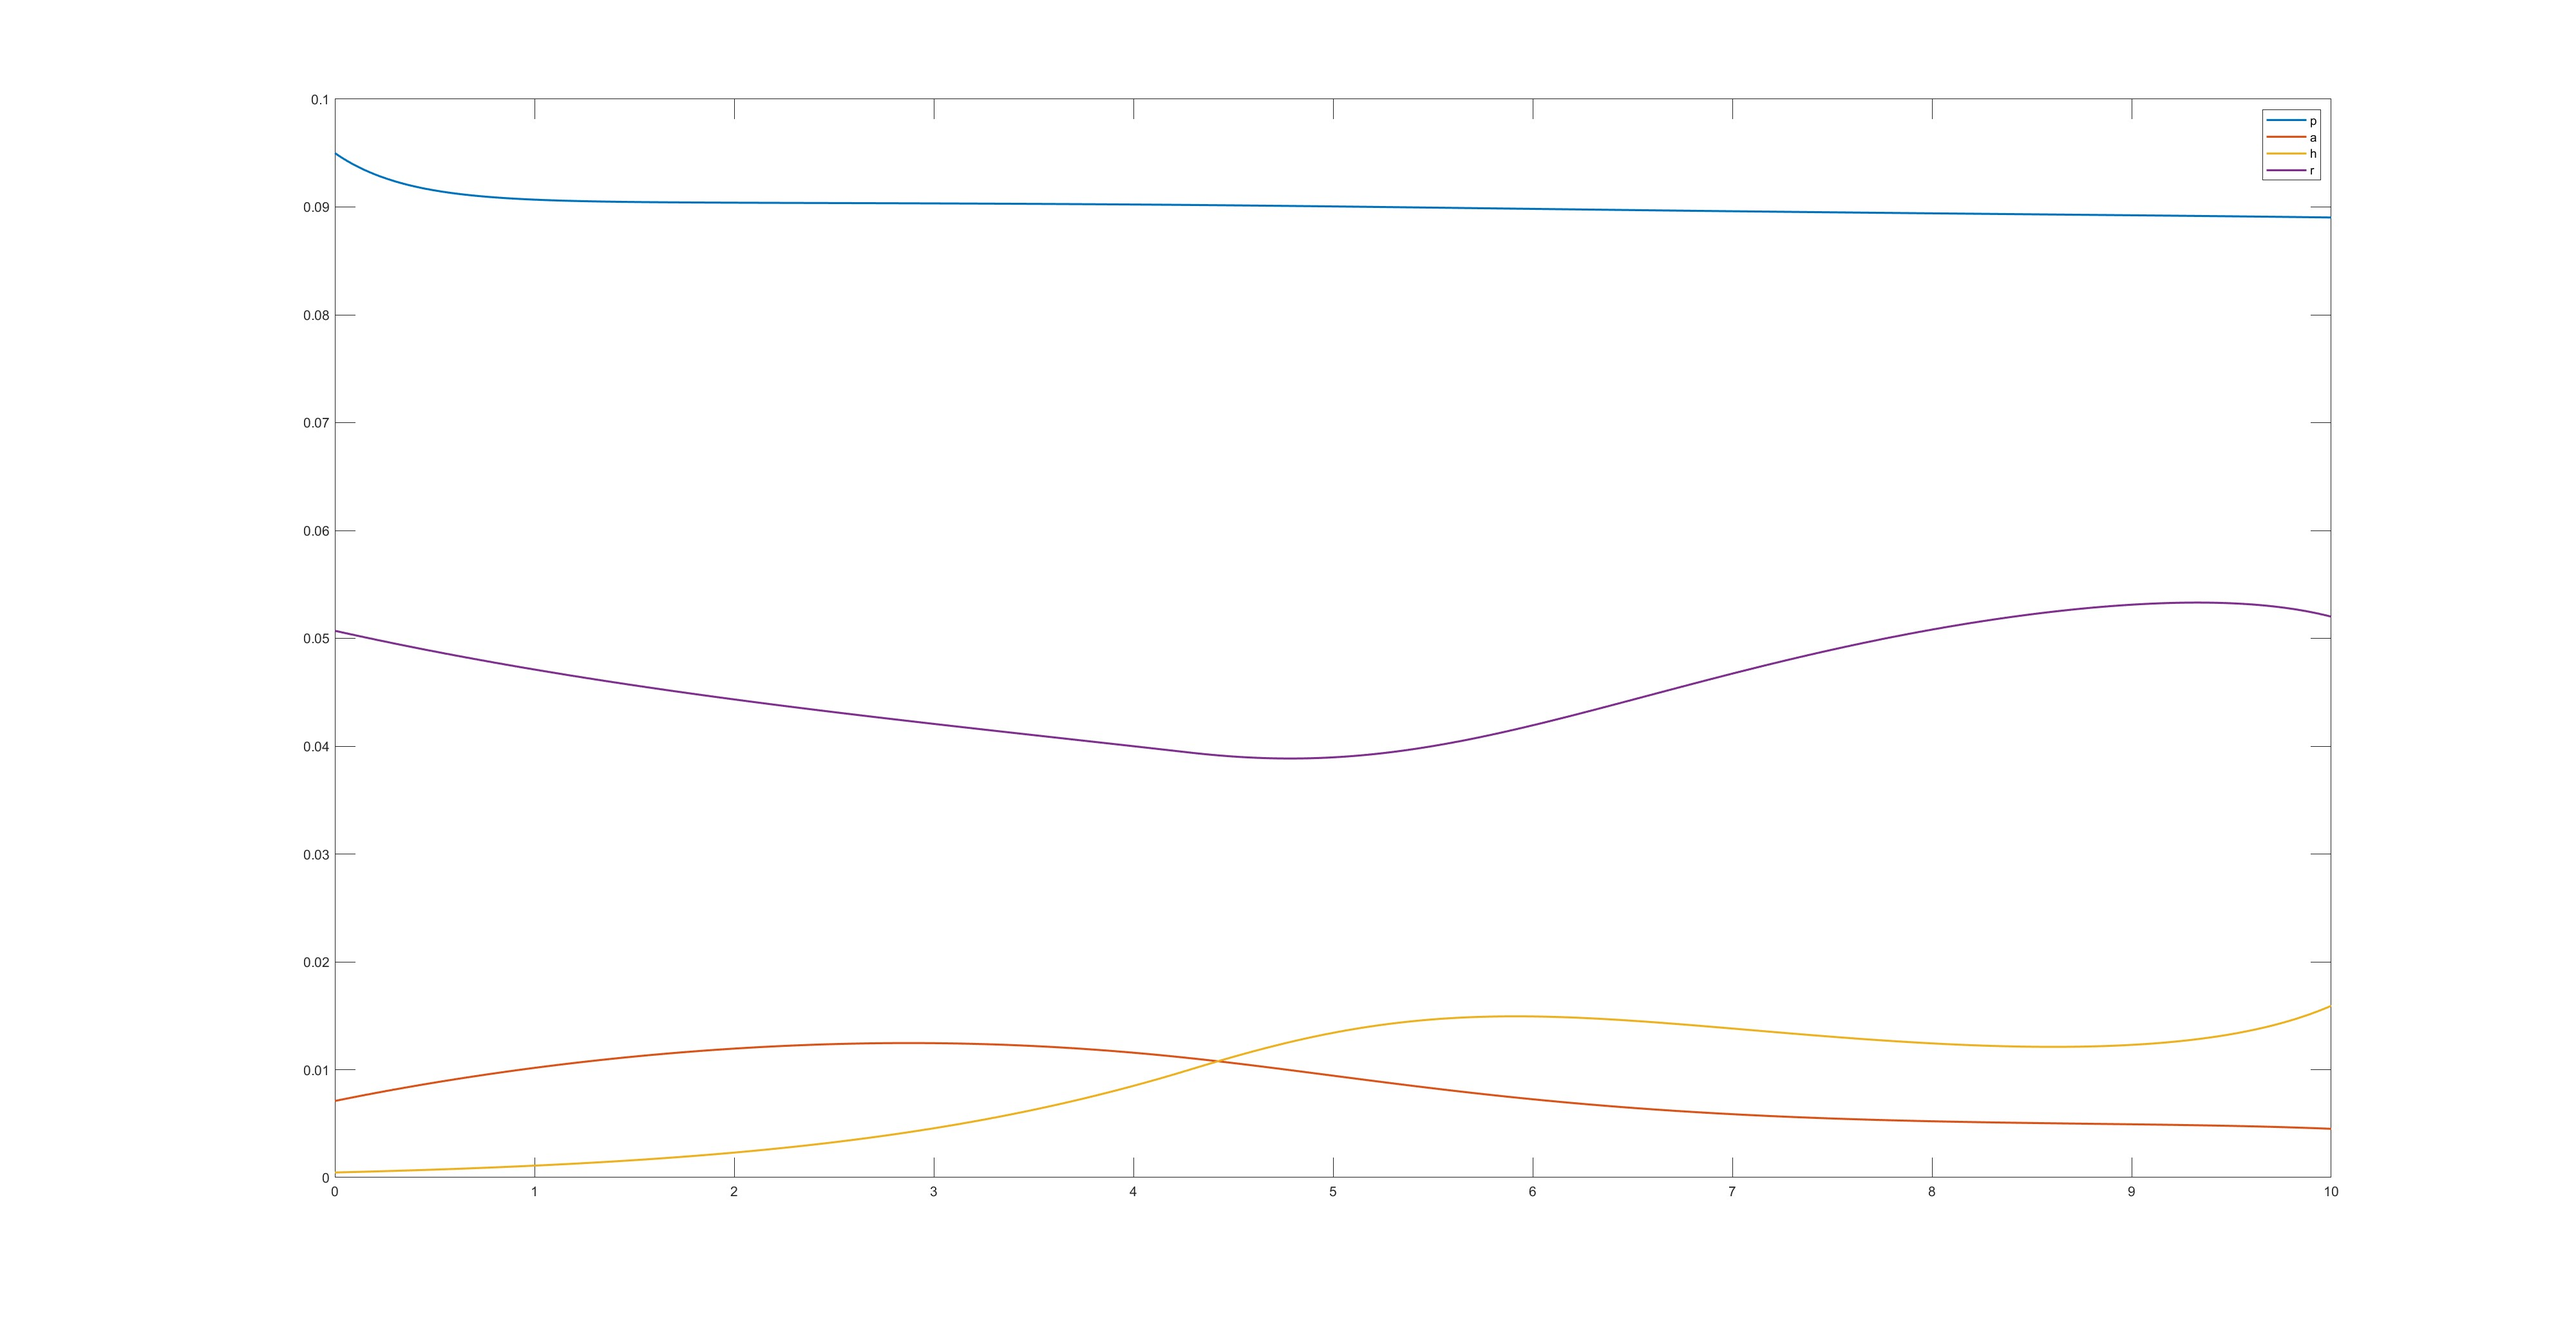
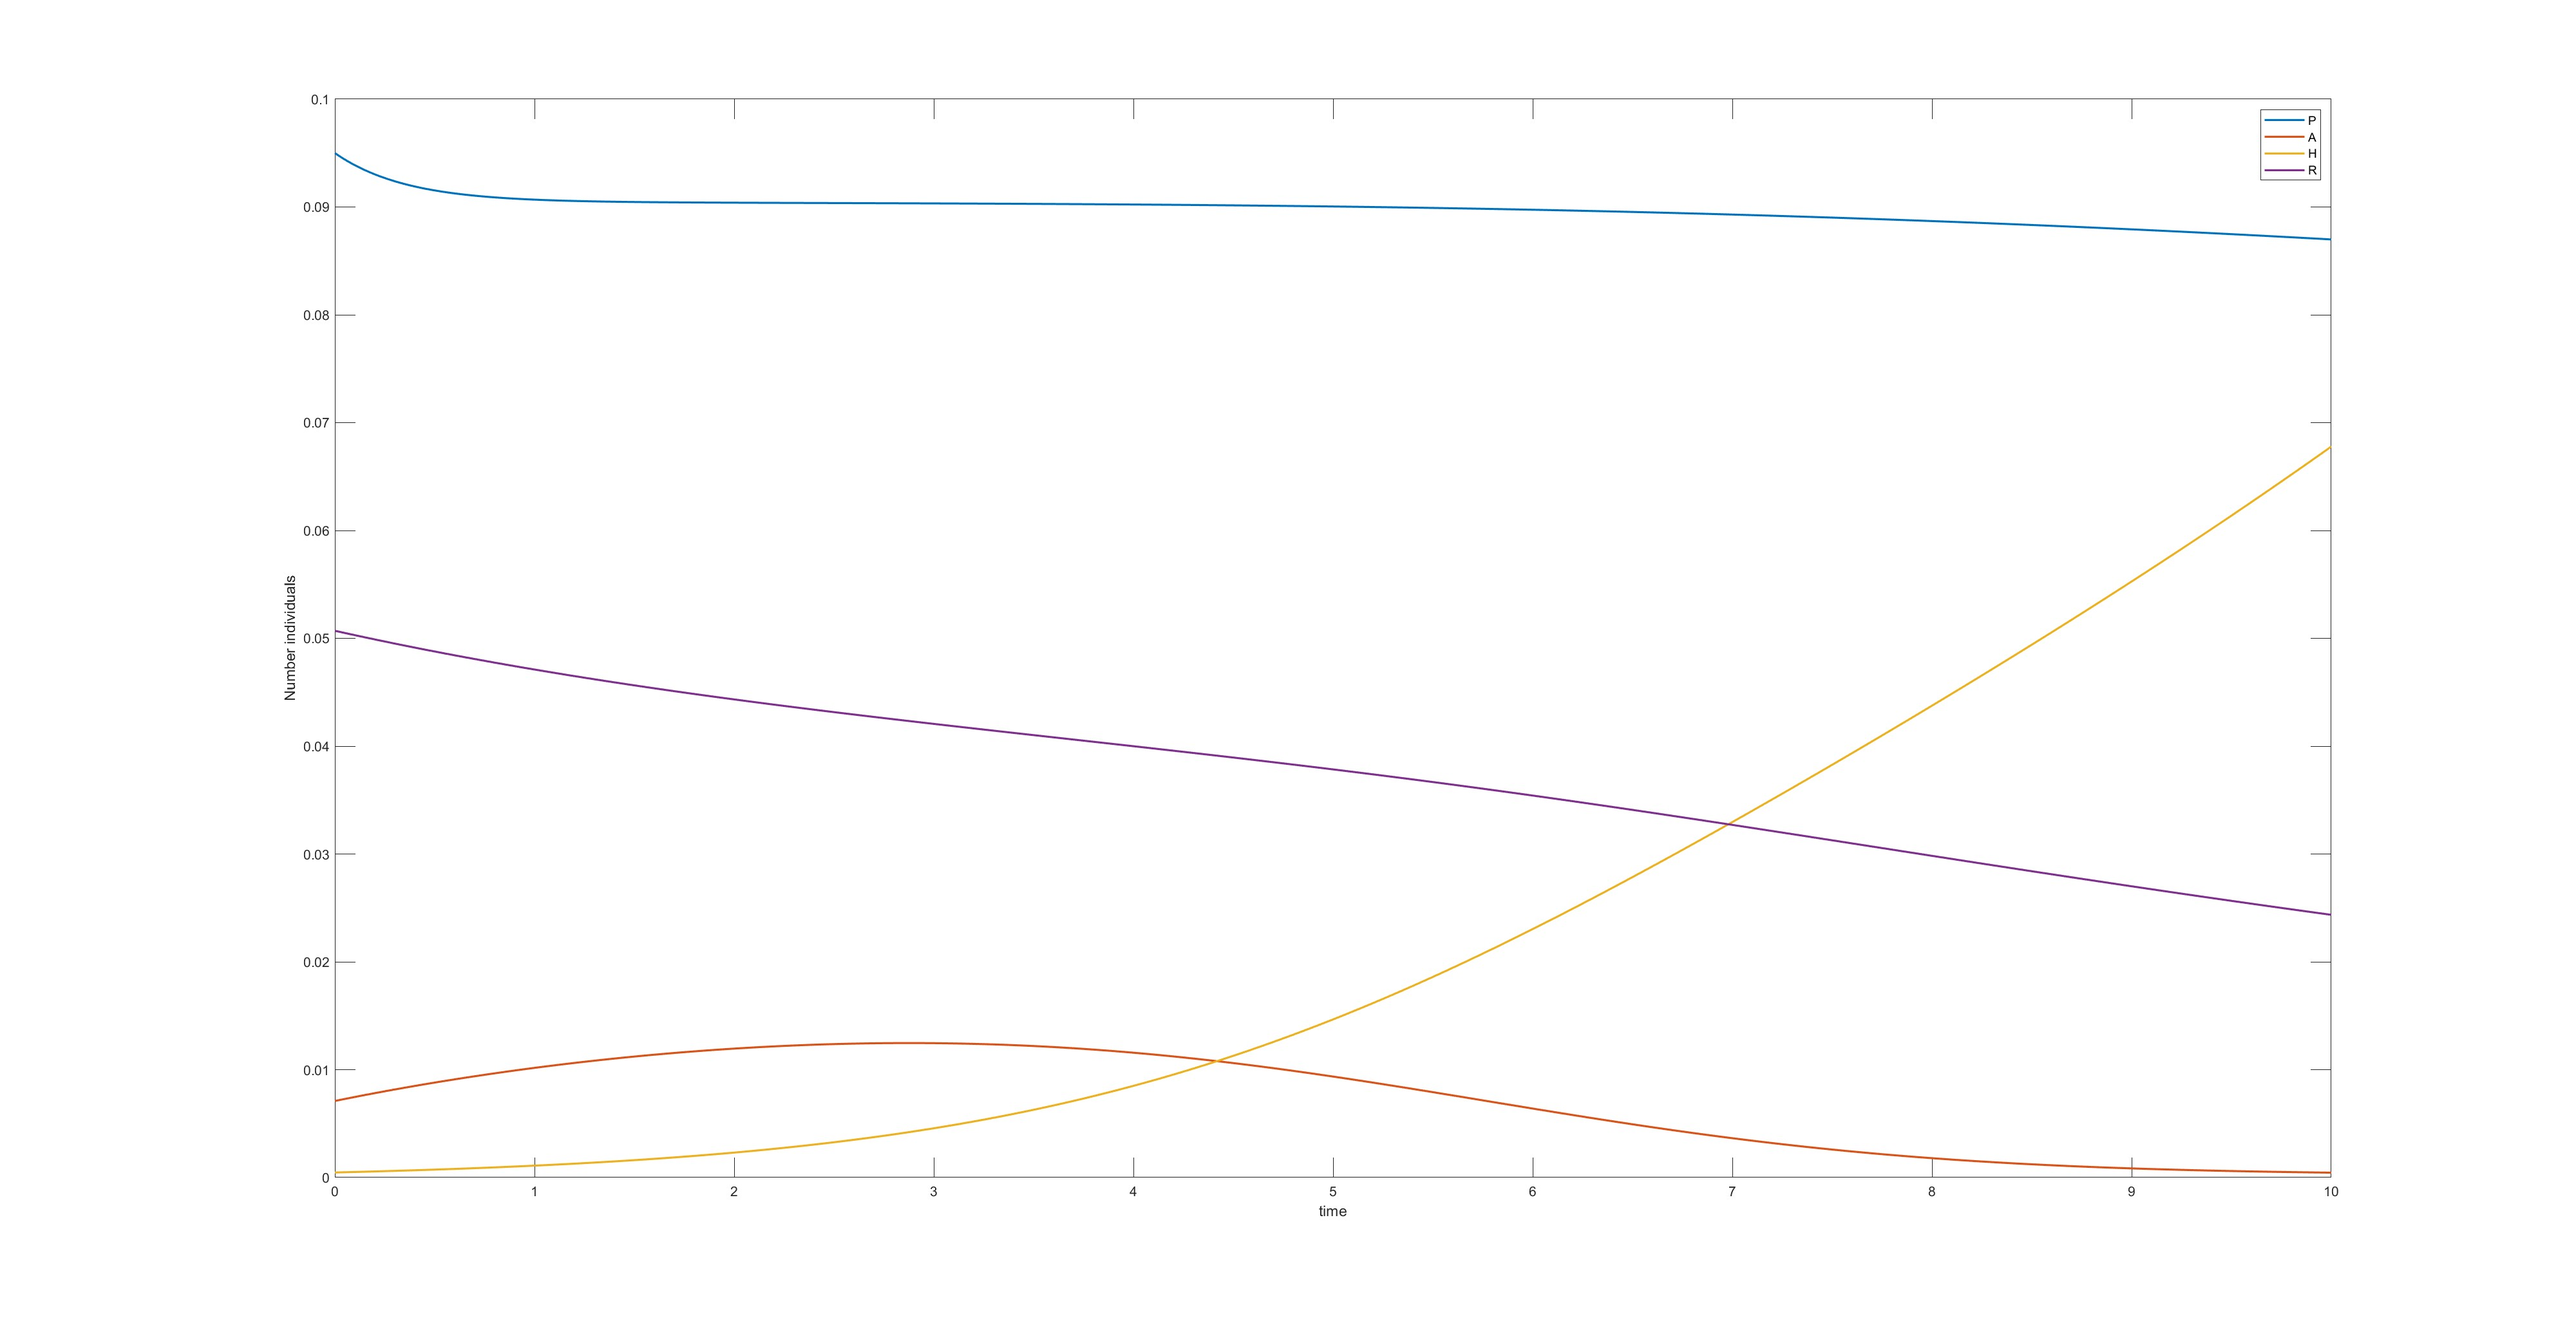
projmod3 all figures

diff --git a/Mod3/ProjMod3/mod3.m b/Mod3/ProjMod3/mod3.m
@@ -15,21 +15,21 @@ format short
 global alpha betaA betaP theta1 theta2 theta3 omega gamma epsilon miu miuA miuH sigma zeta niu; 
 
 %% Do PDF ParamNorm
-alpha=0.27;
-betaA=0.000878; 
-betaP=0.0000654; 
-theta1=0.222;
-epsilon=2.53;
-miu=0.0071; 
-miuA=0.00883;   
-miuH=0.0466;
-gamma=0.00505;   
-theta2=0.236; 
-sigma=0.102;
-zeta=0.198;
-theta3=19.7; 
-niu=0.000531;
-omega=0.0000000001; %%% onde esta no pdf
+% alpha=0.27;
+% betaA=0.000878; 
+% betaP=0.0000654; 
+% theta1=0.222;
+% epsilon=2.53;
+% miu=0.0071; 
+% miuA=0.00883;   
+% miuH=0.0466;
+% gamma=0.00505;   
+% theta2=0.236; 
+% sigma=0.102;
+% zeta=0.198;
+% theta3=19.7; 
+% niu=0.000531;
+% omega=0.0000000001; %%% onde esta no pdf
 
 %% Parametros simplificados
 % alpha=0.2;
@@ -85,28 +85,28 @@ omega=0.0000000001; %%% onde esta no pdf
 % omega=0.0000000001;
 
 %% Parametros bons ParamBom
-% alpha=0.1;
-% betaA=0.0001; 
-% betaP=0.00001; 
-% theta1=0.1;
-% epsilon=3;
-% miu=0; 
-% miuA=0;   
-% miuH=0;
-% gamma=0.01;   
-% theta2=0.1; 
-% sigma=0.05;
-% zeta=0.1;
-% theta3=5; 
-% niu=0.05;
-% omega=0.0000000001;
+alpha=0.1;
+betaA=0.0001; 
+betaP=0.00001; 
+theta1=0.1;
+epsilon=3;
+miu=0; 
+miuA=0;   
+miuH=0;
+gamma=0.01;   
+theta2=0.1; 
+sigma=0.05;
+zeta=0.1;
+theta3=5; 
+niu=0.05;
+omega=0.0000000001;
 
 %% 
 % PDF % usado no VarParam
-% P0=0.095;
-% A0=0.0071;
-% H0=0.000465;
-% R0=0.0507;
+P0=0.095;
+A0=0.0071;
+H0=0.000465;
+R0=0.0507;
 
 % Ma situacao inicial
 % P0=0.05;
@@ -115,14 +115,18 @@ omega=0.0000000001; %%% onde esta no pdf
 % R0=0.0507;
 
 % Inicial Normal
-P0=0.1;
-A0=0.001;
-H0=0.0001;
-R0=0.001;
+% P0=0.1;
+% A0=0.001;
+% H0=0.0001;
+% R0=0.001;
 
-fig1 = "VariaInicial/Matlab/GeralPDF4.jpg";
-fig2 = "VariaInicial/Matlab/I2PDF4.jpg";
-fig3 = "VariaInicial/Matlab/PDF4.jpg";
+% fig1 = "VariaInicial/Matlab/GeralPDF2.jpg";
+% fig2 = "VariaInicial/Matlab/I2PDF2.jpg";
+% fig3 = "VariaInicial/Matlab/PDF2.jpg";
+
+fig1 = "VariaParam/Matlab/GeralParamBom.jpg";
+fig2 = "VariaParam/Matlab/I2ParamBom.jpg";
+fig3 = "VariaParam/Matlab/ParamBom.jpg";
 
 %% 
 % - final time -- 

diff --git a/Mod3/ProjMod3/read_txt.m b/Mod3/ProjMod3/read_txt.m
@@ -4,14 +4,14 @@ close all
 
 %% Read results from file
 name = "PDF4";
-fig1 = sprintf("VariaInicial/Matlab/Geral%s.jpg",name);
-fig2 = sprintf("VariaInicial/Matlab/I2%s.jpg",name);
-fig3 = sprintf("VariaInicial/Matlab/%s.jpg",name);
+fig1 = sprintf("VariaInicial/Ucontrol/Geral%s.jpg",name);
+fig2 = sprintf("VariaInicial/Ucontrol/I2%s.jpg",name);
+fig3 = sprintf("VariaInicial/Ucontrol/%s.jpg",name);
 
 % name = "ParamMau";
-% fig1 = sprintf("VariaParam/Matlab/Geral%s.jpg",name);
-% fig2 = sprintf("VariaParam/Matlab/I2%s.jpg",name);
-% fig3 = sprintf("VariaParam/Matlab/%s.jpg",name);
+% fig1 = sprintf("VariaParam/Ucontrol/Geral%s.jpg",name);
+% fig2 = sprintf("VariaParam/Ucontrol/I2%s.jpg",name);
+% fig3 = sprintf("VariaParam/Ucontrol/%s.jpg",name);
 
 
 fileID=fopen(sprintf('UcontrolV%s.txt',name),'r');
